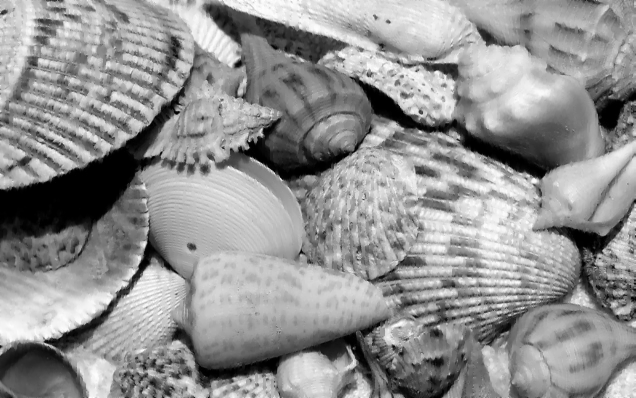
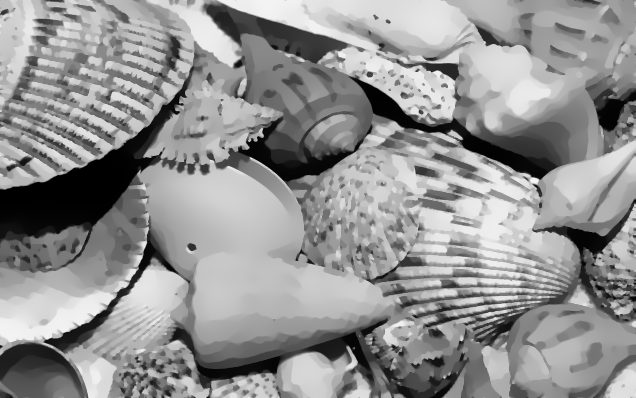
implicit lambda=1.0

diff --git a/implicit.cpp b/implicit.cpp
@@ -15,7 +15,7 @@ using namespace std;
 typedef Eigen::SparseMatrix<double> SpMat; // declares a column-major sparse matrix type of double
 typedef Eigen::Triplet<double> T;
 
-double lambda = 0.1;
+double lambda = 1;
 bool isImplicit = true;
 const double K = 10;
 const double K2 = 1 / K / K;
